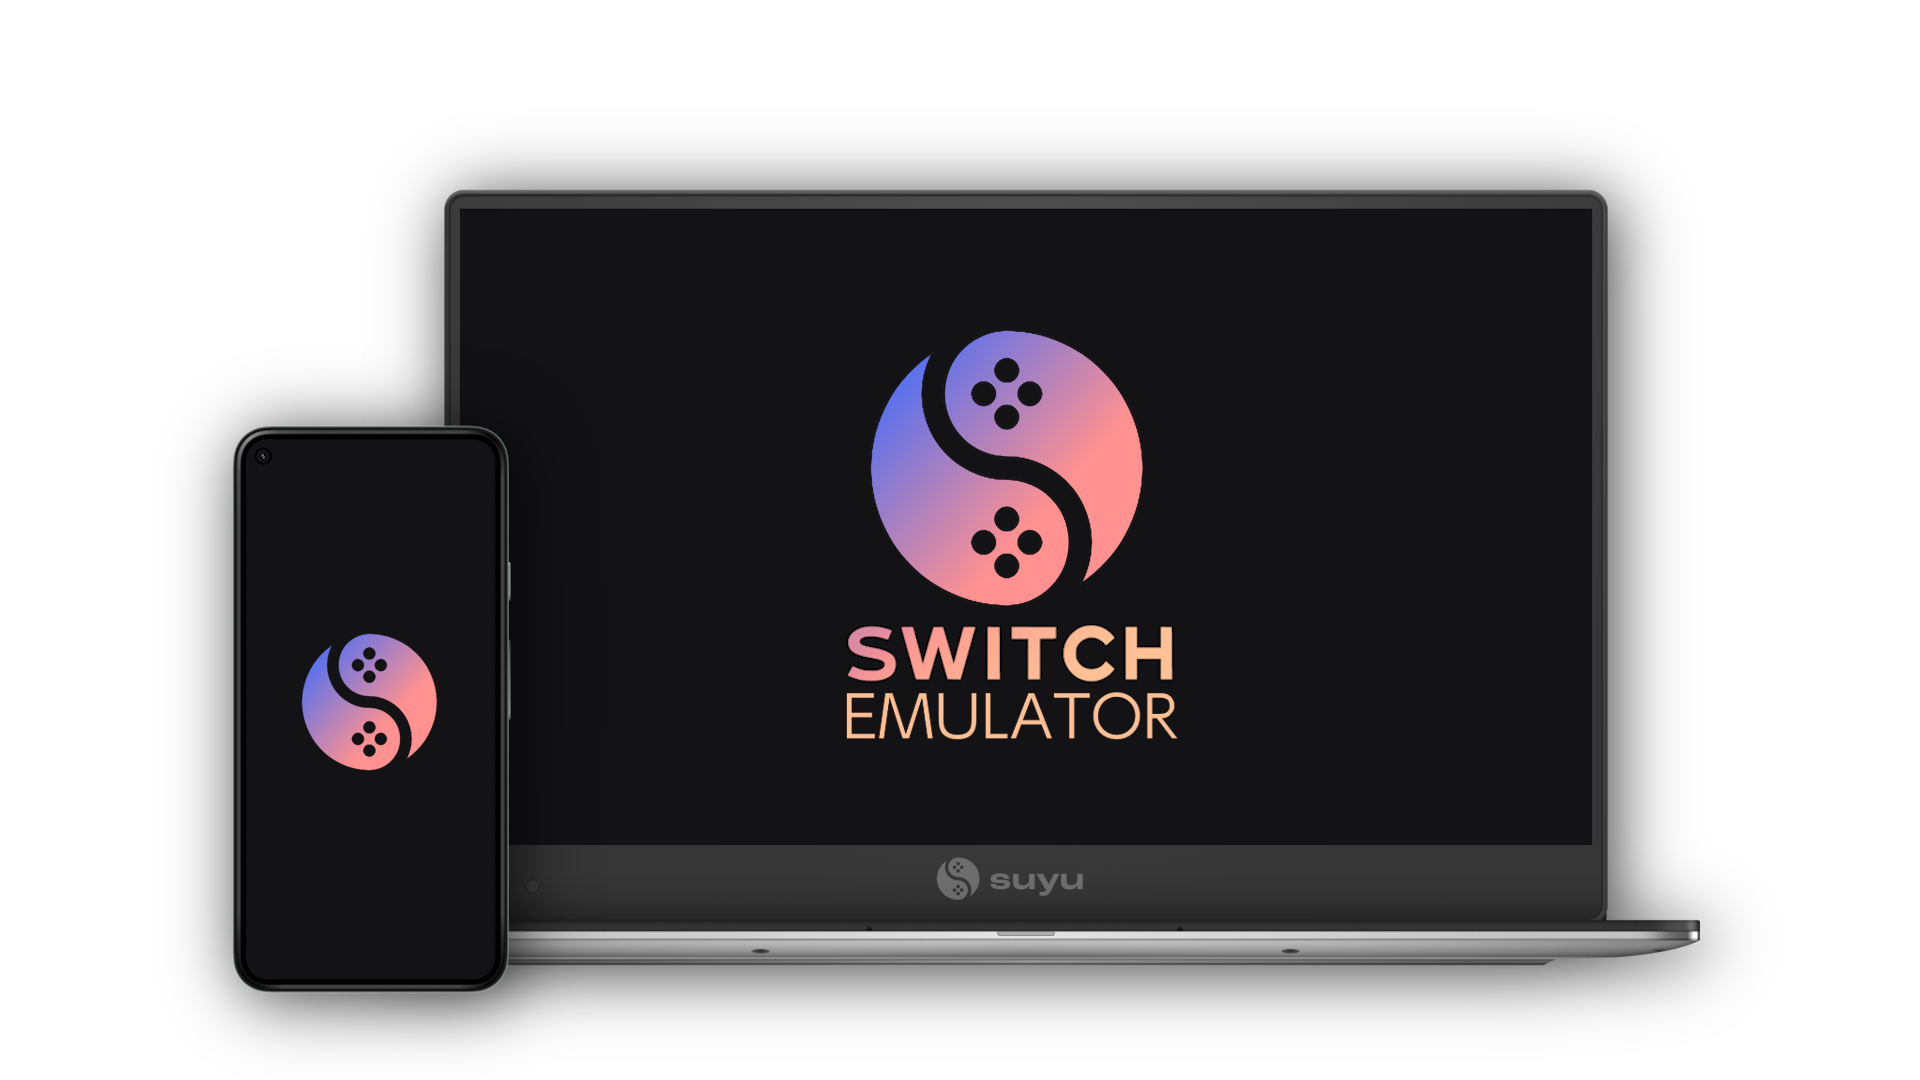
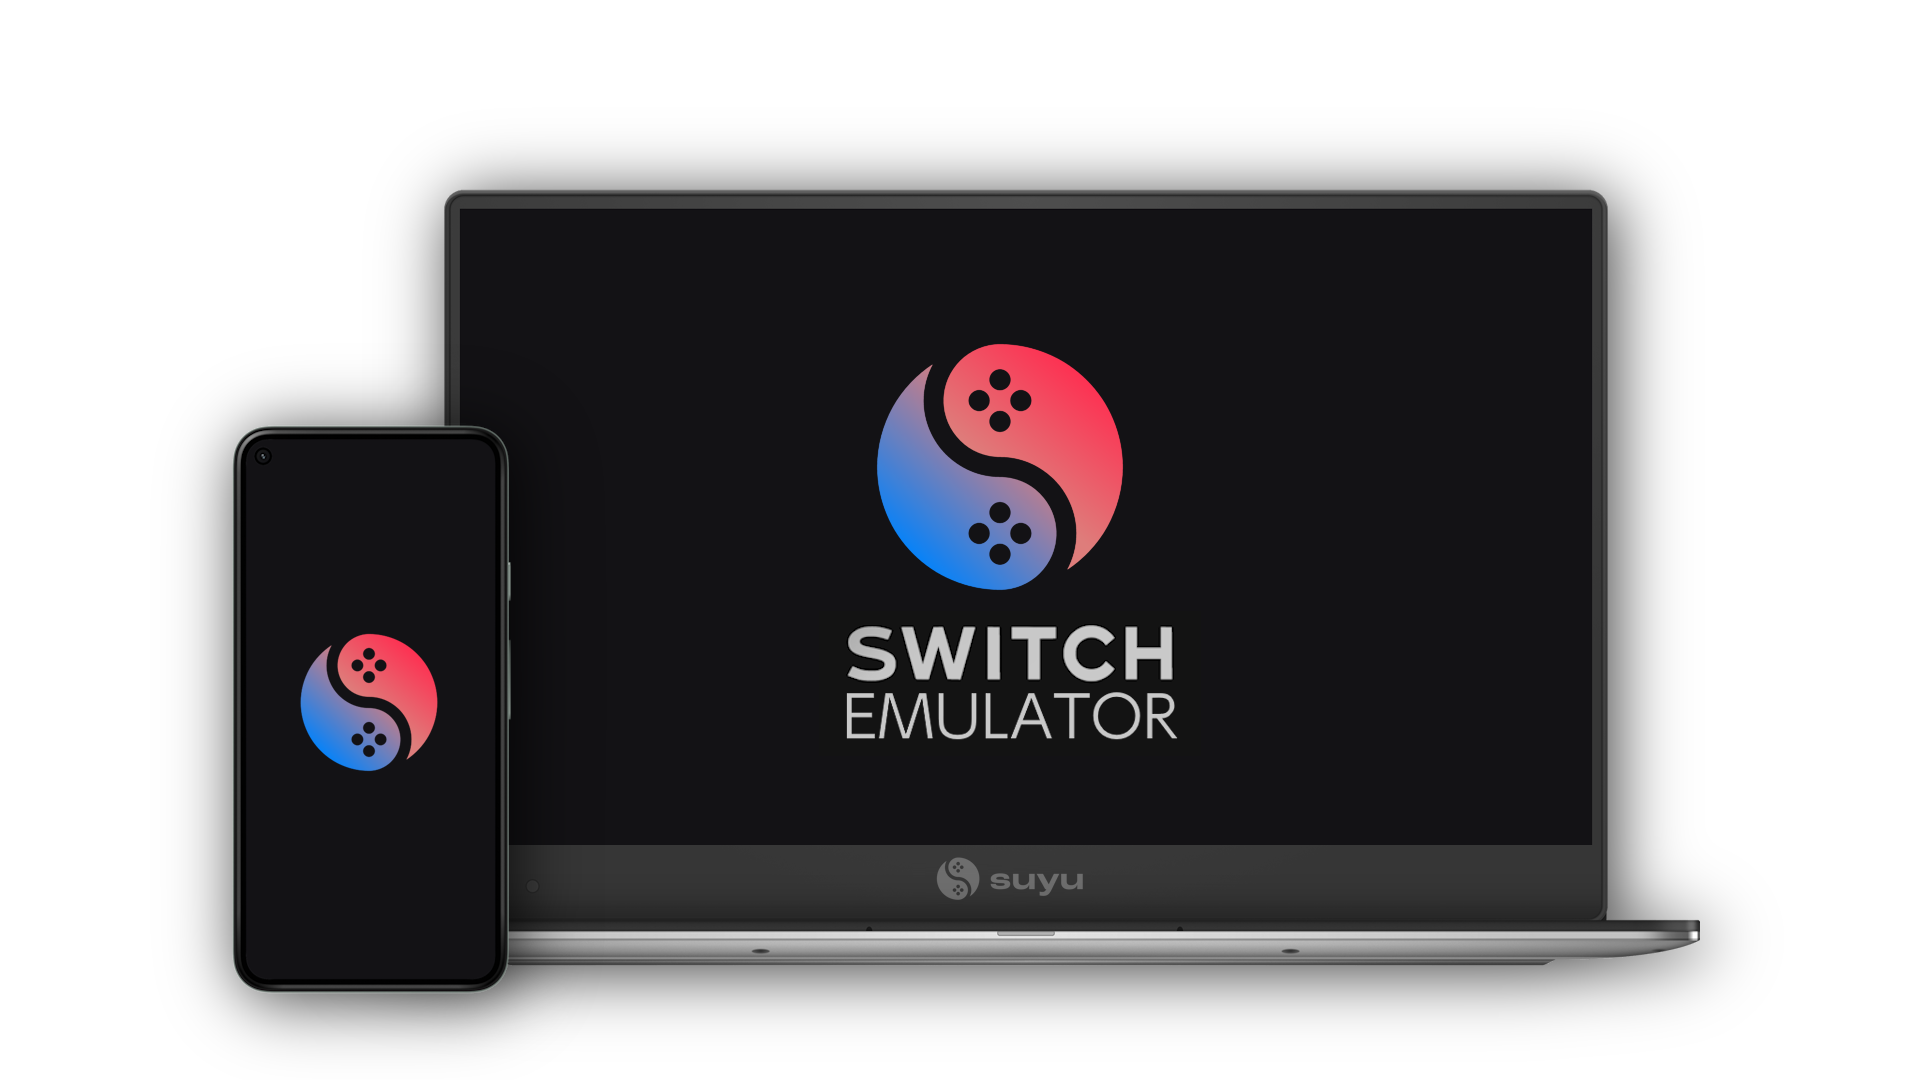
update design

Changed region(s): [[0.4375, 0.3056, 0.625, 0.7028], [0.1562, 0.5806, 0.25, 0.7333]]

diff --git a/suyu.dev/style/style.css b/suyu.dev/style/style.css
@@ -36,7 +36,7 @@ body::before {
   left: 0;
   width: 100%;
   min-height: 100%;
-  background: linear-gradient(135deg, #5e73eb45 0%, #00000000 50%, #00000000 60%, #131215 100%);
+  background: linear-gradient(45deg, #0099ff89 0%, #00000000 40%, #00000000 60%, #ff002bc1 100%);
   z-index: -1;
   margin: 0 auto;
 }
@@ -227,7 +227,7 @@ svg {
 }
 
 .gradient-sub-title {
-  background-image: linear-gradient(90deg, #5e72eb 0%, #ff9190 56%, #fec195 100%) !important;
+  background-image: linear-gradient(90deg, #0198FC 0%, #ff7876 56%, #FE3153 100%) !important;
   font-weight: bold;
   -webkit-background-clip: text !important; 
   background-clip: text !important;
@@ -331,7 +331,7 @@ svg {
 }
 
 .imageContainer h1 {
-  background-image: linear-gradient(90deg, #5e72eb 0%, #ff9190 56%, #fec195 100%);
+  background-image: linear-gradient(90deg, #0198FC 0%, #de7d7b 56%, #FE3153 100%);
   color: transparent;
   -webkit-background-clip: text;
   text-align: center;

diff --git a/suyu.dev/index.html b/suyu.dev/index.html
@@ -34,7 +34,7 @@
             </svg>
                     <h1>suyu</h1>
             <div class="flex">  
-                <p class="header-sub-title gradient-sub-title">Suyu is</p>
+                <p class="header-sub-title gradient-sub-title">suyu is</p>
                 <p class="header-sub-title" id="word"></p><p class="header-sub-title blink">|</p>
             </div>
                 <a href="https://fr.wikipedia.org/wiki/Terre"><div class="rounded-button">Download ></div></a>
